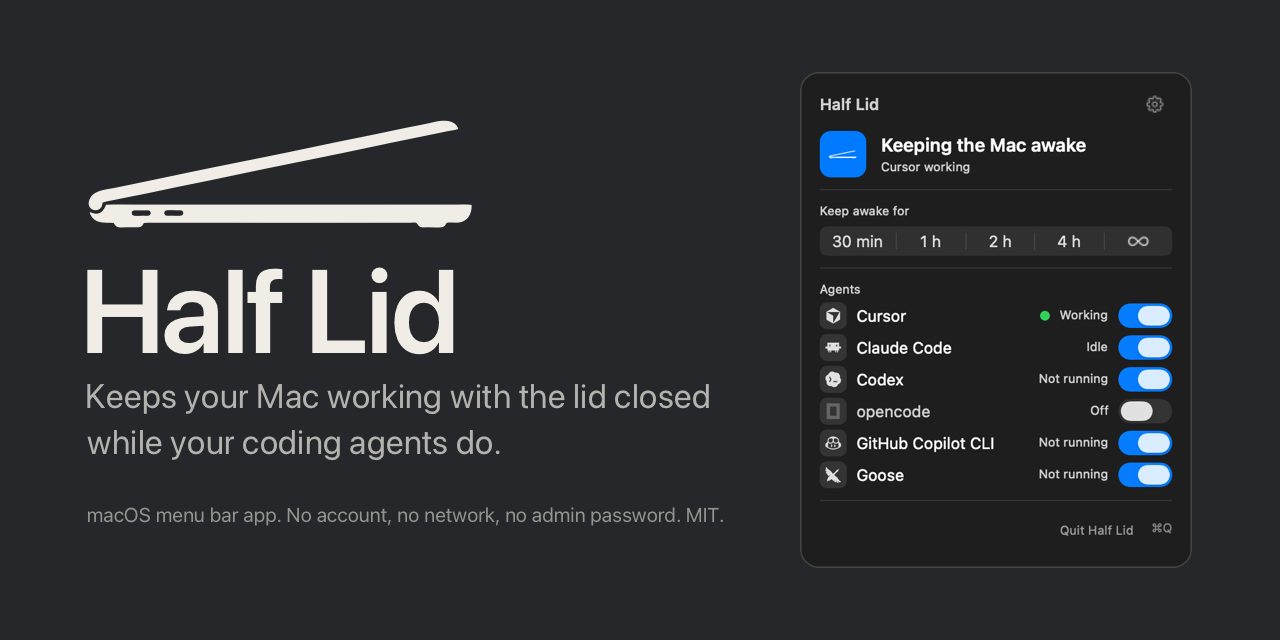
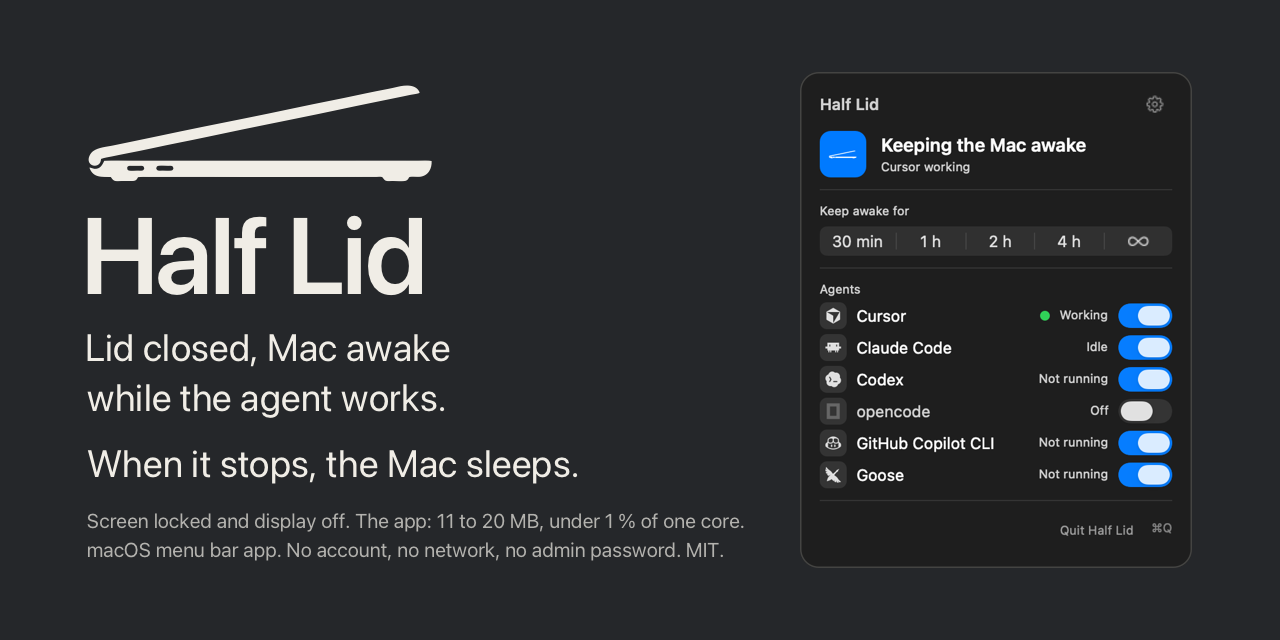
Social preview: say what happens when the agent works and when it stops
The promise is now in the large text: lid closed and the Mac awake while the agent
works, the Mac asleep when it stops. The small print adds the locked screen and
the display off, and the figures of the app itself.

Each line rests on something in the notes: the Mac slept by itself 7 seconds after
the hold was released with the lid closed, the session was locked and the display
asleep 0.1 s after the lid closed (docs/FINDINGS.md), and the app took 11 to 20 MB
and under 1 % of one core (README, Measured). Nothing is said about battery life:
it has not been measured.

diff --git a/scripts/social-preview.swift b/scripts/social-preview.swift
@@ -106,21 +106,38 @@ func draw(_ text: String, size: CGFloat, weight: NSFont.Weight, color: CGColor, 
 // the pieces so the whole block sits in the middle of the picture, level with the panel.
 let shapes = LidGlyph.shapes(for: .active)
 let markInk = shapes.body.boundingBox // the tight box: `bodyBounds` also counts the control points of the curves
-let markWidth: CGFloat = 384
+let markWidth: CGFloat = 344
 let markScale = markWidth / markInk.width
 let markHeight = markInk.height * markScale
 
-let nameSize: CGFloat = 118
-let taglineSize: CGFloat = 34
-let taglineLeading: CGFloat = 46
-let smallSize: CGFloat = 20
+// What it does, in the order it happens: the lid is closed and the Mac stays awake while the agent works, then the Mac sleeps.
+// Everything here is something that was seen on a real Mac (docs/FINDINGS.md) or measured (README, "Measured"): the Mac slept
+// by itself 7 seconds after the hold was released with the lid closed; the screen was locked and the display asleep 0.1 s after
+// the lid closed; the app took 11 to 20 MB and under 1 % of one core (README, the table of figures). No claim about battery life
+// is made: it was not measured.
+let tagline = [
+    ["Lid closed, Mac awake", "while the agent works."], // one sentence on two lines
+    ["When it stops, the Mac sleeps."],
+]
+let small = [
+    "Screen locked and display off. The app: 11 to 20 MB, under 1 % of one core.",
+    "macOS menu bar app. No account, no network, no admin password. MIT.",
+]
 
-let gapAfterMark: CGFloat = 40
-let gapAfterName: CGFloat = 30
-let gapAfterTagline: CGFloat = 54
+let nameSize: CGFloat = 108
+let taglineSize: CGFloat = 38
+let taglineLeading: CGFloat = 50
+let taglineSentenceGap: CGFloat = 16 // extra room between the two sentences
+let smallSize: CGFloat = 20
+let smallLeading: CGFloat = 29
+
+let gapAfterMark: CGFloat = 34
+let gapAfterName: CGFloat = 40
+let gapAfterTagline: CGFloat = 36
 let nameHeight = nameSize * 0.72 // cap height of the system font
-let taglineHeight = taglineLeading + taglineSize * 0.72
-let smallHeight = smallSize * 0.72
+let taglineLines = tagline.flatMap { $0 }.count
+let taglineHeight = CGFloat(taglineLines - 1) * taglineLeading + CGFloat(tagline.count - 1) * taglineSentenceGap + taglineSize * 0.72
+let smallHeight = CGFloat(small.count - 1) * smallLeading + smallSize * 0.72
 let stackHeight = markHeight + gapAfterMark + nameHeight + gapAfterName + taglineHeight + gapAfterTagline + smallHeight
 var cursor = ((CGFloat(canvasHeight) + stackHeight) / 2).rounded() // top of the stack
 
@@ -135,14 +152,25 @@ context.fillPath(using: .winding)
 context.restoreGState()
 cursor -= markHeight + gapAfterMark
 
-draw("Half Lid", size: nameSize, weight: .semibold, color: offWhite, kern: -2.2, baseline: cursor - nameHeight)
+draw("Half Lid", size: nameSize, weight: .semibold, color: offWhite, kern: -2.1, baseline: cursor - nameHeight)
 cursor -= nameHeight + gapAfterName
 
-draw("Keeps your Mac working with the lid closed", size: taglineSize, weight: .regular, color: secondary, baseline: cursor - taglineSize * 0.72)
-draw("while your coding agents do.", size: taglineSize, weight: .regular, color: secondary, baseline: cursor - taglineSize * 0.72 - taglineLeading)
+var baseline = cursor - taglineSize * 0.72
+for (index, sentence) in tagline.enumerated() {
+    if index > 0 { baseline -= taglineSentenceGap }
+    for (row, text) in sentence.enumerated() {
+        if row > 0 { baseline -= taglineLeading }
+        draw(text, size: taglineSize, weight: .regular, color: offWhite, baseline: baseline)
+    }
+    if index < tagline.count - 1 { baseline -= taglineLeading }
+}
 cursor -= taglineHeight + gapAfterTagline
 
-draw("macOS menu bar app. No account, no network, no admin password. MIT.", size: smallSize, weight: .regular, color: tertiary, baseline: cursor - smallHeight)
+baseline = cursor - smallSize * 0.72
+for (index, text) in small.enumerated() {
+    if index > 0 { baseline -= smallLeading }
+    draw(text, size: smallSize, weight: .regular, color: secondary, baseline: baseline)
+}
 
 // MARK: write
 
